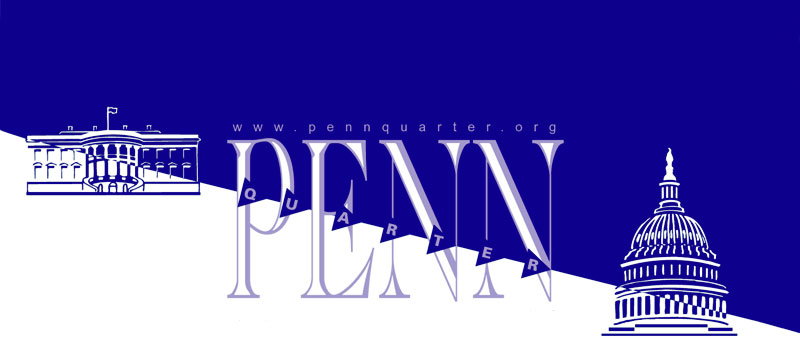
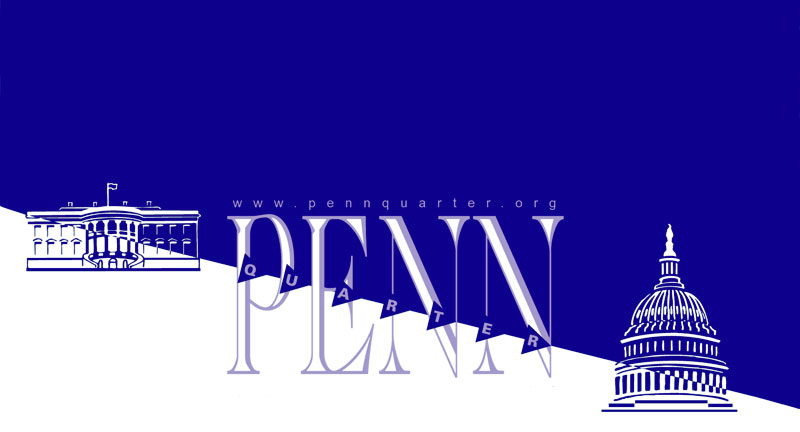
add smallphone breakpoint and change hamburger menu position to the left

Changed region(s): [[0.0, 0.2781, 1.0, 0.9579], [0.2812, 0.8034, 0.3438, 0.8652], [0.625, 0.3399, 0.6562, 0.3708]]

diff --git a/css/style.css b/css/style.css
@@ -291,13 +291,13 @@ Photos
   background-size: cover; }
   @media only screen and (max-width: 48em) {
     .header {
-      background: url("../img/banner-phone.jpg") no-repeat;
+      background: url("../img/banner-tablet.jpg") no-repeat;
       background-size: contain;
       height: 35.6rem; } }
   @media only screen and (max-width: 37.5em) {
     .header {
-      background-size: contain;
-      height: 29rem; } }
+      background: url("../img/banner-phone.jpg") no-repeat;
+      background-size: contain; } }
   .header__link {
     position: absolute;
     top: 6%;
@@ -338,12 +338,13 @@ Photos
     border-radius: 4px;
     display: inline-block;
     position: absolute;
-    top: -4.7rem;
-    right: 1.5rem;
+    top: -12.5rem;
+    left: 1.5rem;
     opacity: 0; }
-    @media only screen and (max-width: 37.5em) {
+    @media only screen and (max-width: 29.9em) {
       .navigation__button {
-        opacity: 1; } }
+        opacity: 1;
+        top: -19rem; } }
     @media only screen and (max-width: 48em) {
       .navigation__button {
         opacity: 1; } }

diff --git a/sass/layout/_navigation.scss b/sass/layout/_navigation.scss
@@ -35,18 +35,21 @@
         border-radius: 4px;
         display:inline-block;
         position: absolute;
-        top: -4.7rem; //.3rem;
-        right: 1.5rem;
+        top: -12.5rem;; //.3rem;
+        left: 1.5rem;
         opacity: 0;
+
+        @include respond(smallphone){
+            opacity: 1;
+            top: -19rem;
+         }
         
-        
-        @include respond(phone){
-           opacity: 1;
+        @include respond(tablet){
+        //@media only screen and (min-width: 29.9em) and (max-width: 48em){ 
+            opacity: 1;
+            //top: -11.75rem;
         }
 
-        @include respond(tablet){
-            opacity: 1;
-         }
     }
 
     .fa-bars {

diff --git a/sass/layout/_header.scss b/sass/layout/_header.scss
@@ -11,16 +11,15 @@
 
 
     @include respond(tablet){
-        background: url("../img/banner-phone.jpg") no-repeat;
+        background: url("../img/banner-tablet.jpg") no-repeat;
         background-size: contain;
         height:35.6rem;
     } 
  
     
     @include respond(phone){
-        //background: url("../img/banner.jpg") no-repeat;
+        background: url("../img/banner-phone.jpg") no-repeat;
         background-size: contain;
-        height:29rem;
     } 
      
 

diff --git a/sass/abstracts/_mixins.scss b/sass/abstracts/_mixins.scss
@@ -22,6 +22,11 @@ Force an Element To Self-Clear its Children
 //MEDIA QUERY MANAGER
 @mixin respond($breakpoint) {
 
+    //479px /16px = 29.9
+    @if $breakpoint == smallphone {
+        @media only screen and (max-width: 29.9em) { @content };
+    }
+
     //600px / 16px = 37.5
     @if $breakpoint == phone {
         @media only screen and (max-width: 37.5em) { @content };
